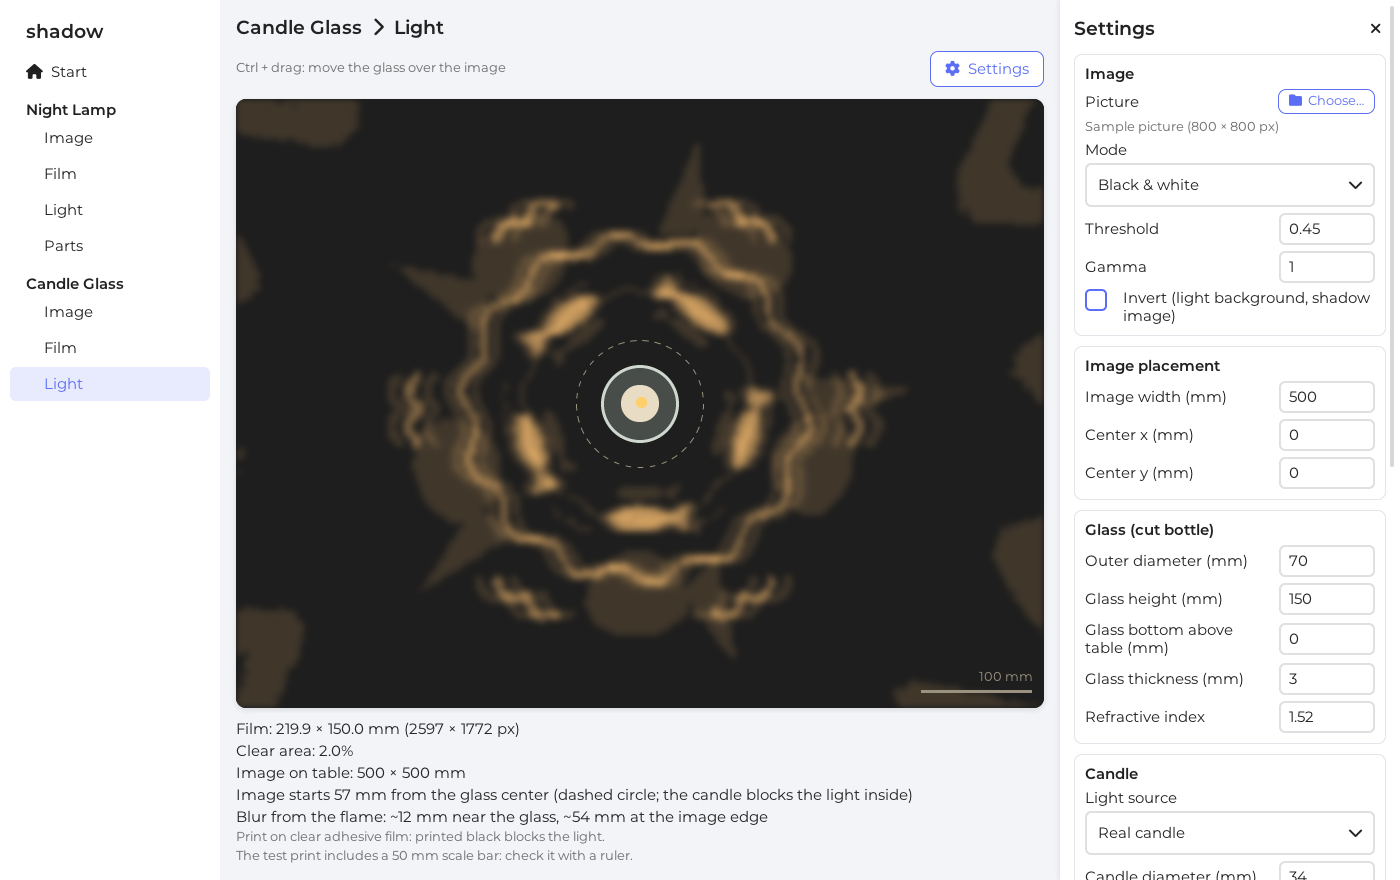
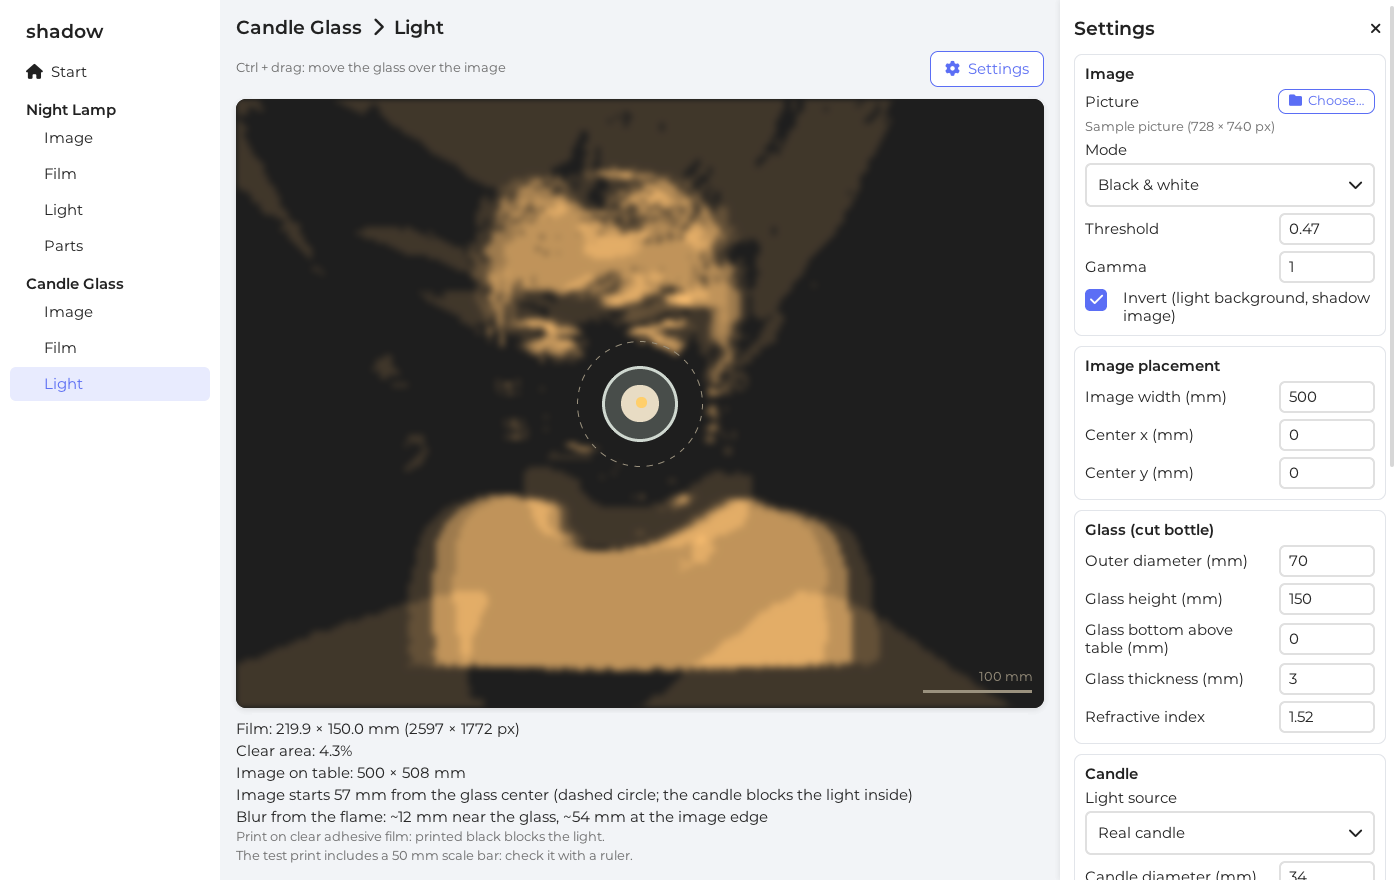
Open with a sample portrait instead of pictures drawn in code
Both products now start with assets/sample_portrait.jpg, embedded in the
program and decoded like any picture the user opens. It is a 1950s
studio portrait of Audrey Hepburn, cropped so the sweater does not take
half the frame (728 × 740). The drawn sample pictures (words and rings,
fish and gulls) and their code are gone.

The picture's suggestion is still applied on the first start. For this
portrait it is black & white with invert (a light background with a dark
subject), so the in-app test no longer assumes a mode or invert state:
it switches to the other mode, and checks that the checkbox toggles.

README screenshots are taken again with the new picture.

diff --git a/README.md b/README.md
@@ -43,7 +43,8 @@ and saves the film for printing or laser engraving.
     with its size in mm;
   - plain pattern for the rotary laser (black = laser fires);
   - parts drawing of the night lamp as SVG, 1:1.
-- Pictures: PNG, JPEG, BMP, GIF, TGA, PSD, PNM.
+- Pictures: PNG, JPEG, BMP, GIF, TGA, PSD, PNM. The app opens with a sample portrait
+  (`assets/sample_portrait.jpg`).
 
 ![The film](docs/lamp_film.png)
 
@@ -121,6 +122,9 @@ It prints `test: ok` at the end. Add `SHADOW_SHOT=<dir>` to save screenshots.
   Building for macOS from another OS is not supported, as it needs Apple's SDK.
 
 ## License
+
+Sample picture: 1950s studio publicity portrait of Audrey Hepburn, cropped
+(`assets/sample_portrait.jpg`).
 
 Bundled fonts: Montserrat (SIL Open Font License, `assets/Montserrat-OFL.txt`) and
 Font Awesome Free (`assets/FontAwesome-LICENSE.txt`).

diff --git a/CLAUDE.md b/CLAUDE.md
@@ -67,7 +67,7 @@ and conventions come from `~/project/github/eexif` (desktop) and `~/project/repe
   small canvas and its pixels are turned and blended in.
 - `src/picture.zig` + `src/image.c`: picture files (stb_image), resampling, the
   brightness grid the calculation reads; PNG writing (stb_image_write).
-- `src/demo.zig`: the sample pictures, drawn on a hidden canvas.
+- `assets/sample_portrait.jpg`: the picture both products open with (embedded).
 - `src/dialogs.zig`: native open/save dialogs through SDL (result via an atomic flag).
 - `src/lv_helpers.c`: LVGL fields with bit fields (fonts, draw buffers).
 - `src/app_test.zig`: in-app test.
